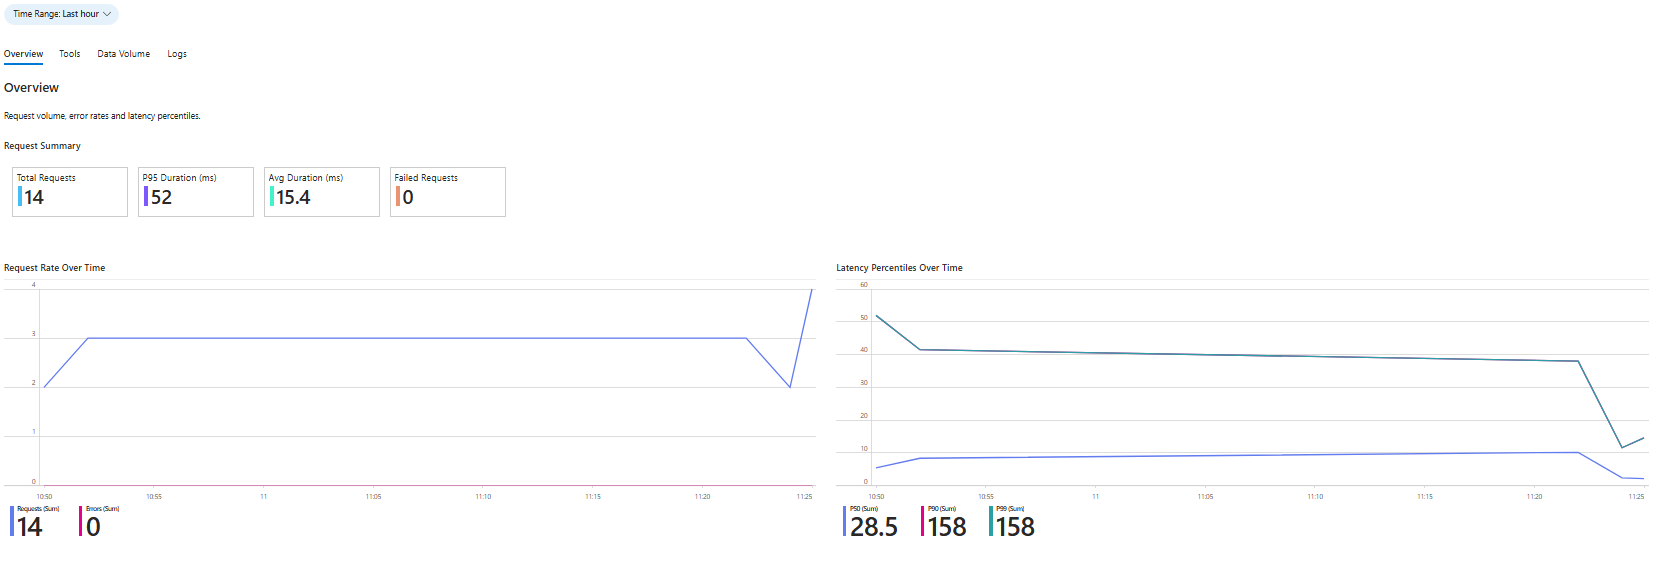
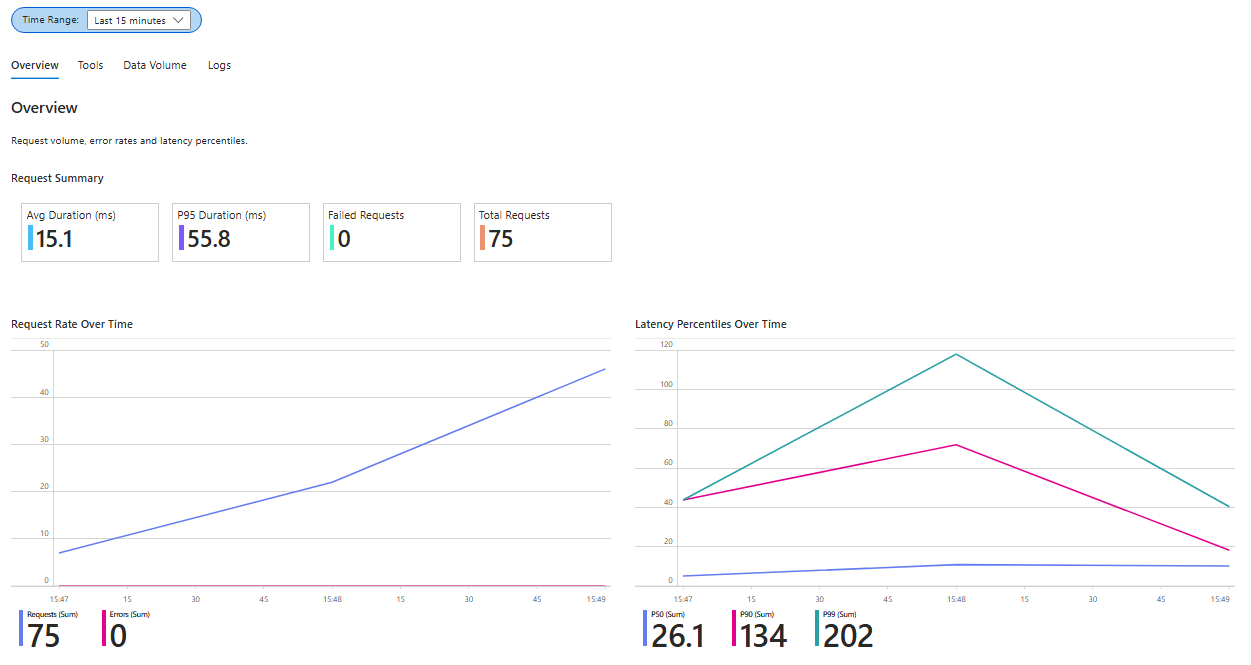
fix: OTel tool spans and structured logging
- Create INTERNAL child spans per tool call via tracer.startActiveSpan() to work around MCP SDK async context loss (getActiveSpan() returned undefined). Spans carry mcp.tool.name, peer.service, blob attributes.

- Wire up otel-logger in server.ts (12 strategic log calls replaced). Session lifecycle, error handlers, upload errors now emit OTel log records that flow to App Insights traces table.

- Update workbook queries to use dependencies table (where INTERNAL spans land in Azure Monitor).

diff --git a/src/server.ts b/src/server.ts
@@ -51,6 +51,7 @@ import { registerFileShareResources } from "./resources/fileshare-resources.js";
 import { registerQueueResources } from "./resources/queue-resources.js";
 import { registerTableResources } from "./resources/table-resources.js";
 import { parseDisabledTools, buildDisabledToolError } from "./utils/disabled-tools.js";
+import { info, warn, error as logError, debug } from "./utils/otel-logger.js";
 
 // Re-export for backward compatibility (tests, external consumers)
 export { parseDisabledTools, buildDisabledToolError } from "./utils/disabled-tools.js";
@@ -355,7 +356,7 @@ function validateDisabledToolNames(): void {
 
   for (const disabled of disabledToolNames) {
     if (!knownTools.has(disabled)) {
-      console.warn(`⚠  DISABLED_TOOLS contains unknown tool name: '${disabled}'`);
+      warn(`DISABLED_TOOLS contains unknown tool name: '${disabled}'`, { tool: disabled });
     }
   }
 
@@ -393,7 +394,7 @@ const sessionCleanupTimer = setInterval(() => {
   const now = Date.now();
   for (const [sid, session] of sessions) {
     if (now - session.lastActivity > SESSION_TTL_MS) {
-      console.log(`Session ${sid} expired after ${SESSION_TTL_MS / 60000}min inactivity — cleaning up`);
+      info(`Session expired after ${SESSION_TTL_MS / 60000}min inactivity -- cleaning up`, { sessionId: sid });
       try { session.server.close(); } catch { /* ignore */ }
       sessions.delete(sid);
     }
@@ -450,7 +451,7 @@ app.post("/mcp", async (req: Request, res: Response) => {
       await session.transport.handleRequest(req, res, req.body);
     } catch (error: unknown) {
       const message = error instanceof Error ? error.message : "Internal error";
-      console.error("MCP session request error:", error);
+      logError("MCP session request error", { error: message });
       if (!res.headersSent) {
         res.status(500).json({
           jsonrpc: "2.0",
@@ -506,7 +507,7 @@ app.post("/mcp", async (req: Request, res: Response) => {
       const sid = transport.sessionId;
       if (sid && sessions.has(sid)) {
         sessions.delete(sid);
-        console.log(`Session ${sid} closed and cleaned up`);
+        info("Session closed and cleaned up", { sessionId: sid });
       }
     };
 
@@ -517,11 +518,11 @@ app.post("/mcp", async (req: Request, res: Response) => {
       const sid = transport.sessionId;
       if (sid) {
         sessions.set(sid, { transport, server: mcpServer, lastActivity: Date.now() });
-        console.log(`New session created: ${sid}`);
+        info("New session created", { sessionId: sid });
       }
     } catch (error: unknown) {
       const message = error instanceof Error ? error.message : "Internal error";
-      console.error("MCP initialize error:", error);
+      logError("MCP initialize error", { error: message });
       try { await mcpServer.close(); } catch { /* ignore */ }
       if (!res.headersSent) {
         res.status(500).json({
@@ -546,7 +547,7 @@ app.post("/mcp", async (req: Request, res: Response) => {
     await transport.handleRequest(req, res, req.body);
   } catch (error: unknown) {
     const message = error instanceof Error ? error.message : "Internal error";
-    console.error("MCP stateless request error:", error);
+    logError("MCP stateless request error", { error: message });
     if (!res.headersSent) {
       res.status(500).json({
         jsonrpc: "2.0",
@@ -607,7 +608,7 @@ app.get("/mcp", async (req: Request, res: Response) => {
   } catch (error: unknown) {
     clearInterval(keepaliveTimer);
     const message = error instanceof Error ? error.message : "Internal error";
-    console.error("SSE stream error:", error);
+    logError("SSE stream error", { error: message });
     if (!res.headersSent) {
       res.status(500).json({
         jsonrpc: "2.0",
@@ -642,10 +643,10 @@ app.delete("/mcp", async (req: Request, res: Response) => {
     await session.transport.handleRequest(req, res);
     await session.server.close();
     sessions.delete(sessionId);
-    console.log(`Session ${sessionId} terminated by client`);
+    info("Session terminated by client", { sessionId });
   } catch (error: unknown) {
     const message = error instanceof Error ? error.message : "Internal error";
-    console.error("Session close error:", error);
+    logError("Session close error", { error: message });
     sessions.delete(sessionId);
     if (!res.headersSent) {
       res.status(500).json({
@@ -1023,7 +1024,7 @@ app.post("/upload", apiKeyAuth, uploadLimiter, uploadSizeGuard, (req: Request, r
         return;
       }
 
-      console.error("Upload error:", error);
+      logError("Upload error", { error: message });
       if (!res.headersSent) {
         const isTimeout = message.includes("timeout") || message.includes("ETIMEDOUT");
         const status = isTimeout ? 504 : 500;
@@ -1042,7 +1043,7 @@ app.post("/upload", apiKeyAuth, uploadLimiter, uploadSizeGuard, (req: Request, r
     if (responded) return;
     responded = true;
     filePassThrough?.destroy(err);
-    console.error("Busboy parse error:", err);
+    logError("Busboy parse error", { error: err.message });
     if (!res.headersSent) {
       res.status(400).json({ error: `Multipart parse error: ${err.message}` });
     }

diff --git a/src/utils/errors.ts b/src/utils/errors.ts
@@ -16,7 +16,7 @@
  */
 
 import type { McpServer } from "@modelcontextprotocol/sdk/server/mcp.js";
-import { trace } from "@opentelemetry/api";
+import { trace, SpanKind, SpanStatusCode } from "@opentelemetry/api";
 
 // ── Structured error shape ───────────────────────────────────────────────────
 
@@ -429,44 +429,61 @@ export function wrapToolErrorHandler(server: McpServer): void {
     const handler = args[args.length - 1];
     if (typeof handler === "function") {
       const wrappedHandler = async (...handlerArgs: unknown[]) => {
-        // Enrich the active OTel span with tool metadata.
-        // trace.getActiveSpan() returns undefined when no SDK is loaded,
-        // so this is a safe no-op without OTel.
-        const span = trace.getActiveSpan();
-        if (span && toolName) {
-          span.setAttribute("mcp.tool.name", toolName);
-          span.setAttribute("peer.service", "azure-storage");
-        }
+        // Create a new INTERNAL child span for each tool call.
+        // The MCP SDK's JSON-RPC dispatch breaks AsyncLocalStorage context,
+        // so trace.getActiveSpan() returns undefined inside tool handlers.
+        // By creating our own span we ensure mcp.tool.name always appears
+        // in the dependencies table in Azure Monitor.
+        // When no OTel SDK is loaded, trace.getTracer() returns a no-op
+        // tracer that creates no-op spans -- this is safe.
+        const tracer = trace.getTracer("mcp-azure-storage");
+        const spanName = toolName ? `tool:${toolName}` : "tool:unknown";
 
-        try {
-          const result = await (handler as Function).apply(null, handlerArgs);
+        return tracer.startActiveSpan(spanName, { kind: SpanKind.INTERNAL }, async (span) => {
+          try {
+            // Set tool metadata on the new span.
+            if (toolName) {
+              span.setAttribute("mcp.tool.name", toolName);
+              span.setAttribute("peer.service", "azure-storage");
+            }
 
-          // Blob-specific span enrichment: set container, blob name, and
-          // content length (when known) from the handler parameters.
-          if (span && toolName?.startsWith("blob-")) {
-            const params = handlerArgs[0] as Record<string, unknown> | undefined;
-            if (params && typeof params === "object") {
-              if (typeof params.containerName === "string") {
-                span.setAttribute("blob.container_name", params.containerName);
-              }
-              if (typeof params.blobName === "string") {
-                span.setAttribute("blob.name", params.blobName);
-              }
-              // Estimate content length from base64 payload (blob-create).
-              if (typeof params.contentBase64 === "string") {
-                const b64Len = params.contentBase64.length;
-                // Base64 encodes 3 bytes into 4 chars; approximate decoded size.
-                const approxBytes = Math.floor((b64Len * 3) / 4);
-                span.setAttribute("blob.content_length", approxBytes);
+            const result = await (handler as Function).apply(null, handlerArgs);
+
+            // Blob-specific span enrichment: set container, blob name, and
+            // content length (when known) from the handler parameters.
+            if (toolName?.startsWith("blob-")) {
+              const params = handlerArgs[0] as Record<string, unknown> | undefined;
+              if (params && typeof params === "object") {
+                if (typeof params.containerName === "string") {
+                  span.setAttribute("blob.container_name", params.containerName);
+                }
+                if (typeof params.blobName === "string") {
+                  span.setAttribute("blob.name", params.blobName);
+                }
+                // Estimate content length from base64 payload (blob-create).
+                if (typeof params.contentBase64 === "string") {
+                  const b64Len = params.contentBase64.length;
+                  // Base64 encodes 3 bytes into 4 chars; approximate decoded size.
+                  const approxBytes = Math.floor((b64Len * 3) / 4);
+                  span.setAttribute("blob.content_length", approxBytes);
+                }
               }
             }
-          }
 
-          return result;
-        } catch (err: unknown) {
-          const structured = mapRestError(err);
-          throw new Error(JSON.stringify({ error: structured }));
-        }
+            span.setStatus({ code: SpanStatusCode.OK });
+            return result;
+          } catch (err: unknown) {
+            const structured = mapRestError(err);
+            const errMsg = structured.message || "Tool handler error";
+            span.setStatus({ code: SpanStatusCode.ERROR, message: errMsg });
+            if (err instanceof Error) {
+              span.recordException(err);
+            }
+            throw new Error(JSON.stringify({ error: structured }));
+          } finally {
+            span.end();
+          }
+        });
       };
       args[args.length - 1] = wrappedHandler;
     }
